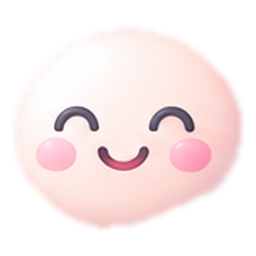
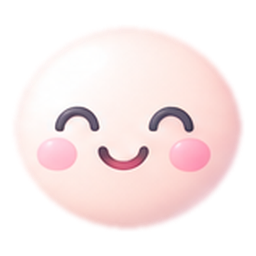
fix: 白いおもちの欠けを修正

diff --git a/OHinasama.html b/OHinasama.html
@@ -175,7 +175,7 @@ img.svc-icon{width:44px;height:44px;object-fit:contain;display:block;margin:0 au
 <div class="app">
   <div class="topbar">
     <div class="topbar-brand">OHinasama</div>
-    <span style="cursor:pointer;display:flex;" onclick="openStaff()"><img src="icons/site/lock.png?v=5" alt="スタッフ" style="width:30px;height:30px;"></span>
+    <span style="cursor:pointer;display:flex;" onclick="openStaff()"><img src="icons/site/lock.png?v=6" alt="スタッフ" style="width:30px;height:30px;"></span>
   </div>
   <div class="scroll-area">
     <div id="p-home" class="page active">
@@ -184,12 +184,12 @@ img.svc-icon{width:44px;height:44px;object-fit:contain;display:block;margin:0 au
         <div class="deco" style="width:65px;height:65px;background:#b0a0f0;bottom:0;left:-10px;"></div>
         <div class="logo-ring"><img src="icons/site/paw.png?v=2" alt="" style="width:50px;height:50px;object-fit:contain;"></div>
         <div class="brand-hero">OHinasama</div>
-        <div class="tagline">ふわふわスクイーズの専門ショップ <img class="ico" src="icons/site/sakura.png?v=5" alt=""></div>
+        <div class="tagline">ふわふわスクイーズの専門ショップ <img class="ico" src="icons/site/sakura.png?v=6" alt=""></div>
       </div>
       <div class="divider"></div>
-      <div class="sec-title"><img class="ico" src="icons/site/tulip.png?v=5" alt=""> OHinasamaについて</div>
+      <div class="sec-title"><img class="ico" src="icons/site/tulip.png?v=6" alt=""> OHinasamaについて</div>
       <div class="bubble"><p>OHinasamaは、<strong>スクイーズ（やわらかくてもちもちのおもちゃ）</strong>を専門に扱うショップです。<br><br>お買い物は<strong>ライブ配信</strong>でおこないます。リアルタイムでかわいいスクイーズたちをご覧いただけます！🎥✨</p></div>
-      <div class="sec-title"><img class="ico" src="icons/site/ribbon.png?v=5" alt=""> サービス内容</div>
+      <div class="sec-title"><img class="ico" src="icons/site/ribbon.png?v=6" alt=""> サービス内容</div>
       <div class="svc-grid">
         <div class="svc-card"><img class="svc-icon" src="icons/site/camera.png?v=2" alt=""><div class="svc-name">ライブ配信</div><div class="svc-desc">リアルタイムでスクイーズをご覧いただけます！</div></div>
         <div class="svc-card"><img class="svc-icon" src="icons/site/paw.png?v=2" alt=""><div class="svc-name">スクイーズ販売</div><div class="svc-desc">ふわふわもちもちのスクイーズをたくさんご用意！</div></div>
@@ -204,19 +204,19 @@ img.svc-icon{width:44px;height:44px;object-fit:contain;display:block;margin:0 au
       <div class="flow-box"><div class="step-num">3</div><div class="step-text"><strong>お気に入りをお選び</strong><br>気になるスクイーズを教えてね💕</div></div>
       <div class="arr">▼</div>
       <div class="flow-box"><div class="step-num">4</div><div class="step-text"><strong>お支払い &amp; お届け</strong><br>確認が終わったらお届けします🎁</div></div>
-      <div style="margin-top:1rem;" class="sec-title"><img class="ico" src="icons/site/clipboard.png?v=5" alt=""> ショップ情報</div>
+      <div style="margin-top:1rem;" class="sec-title"><img class="ico" src="icons/site/clipboard.png?v=6" alt=""> ショップ情報</div>
       <div class="info-row"><span style="font-size:1.1rem;">🕐</span><div class="info-text"><strong>営業時間</strong>お問い合わせ時にご確認ください</div></div>
       <div class="info-row"><span style="font-size:1.1rem;">🎥</span><div class="info-text"><strong>販売方法</strong>ライブ配信でのみ対応しております</div></div>
-      <div class="info-row"><img src="icons/site/sakura.png?v=5" alt="" style="width:22px;height:22px;"><div class="info-text"><strong>ご注意</strong>予約制ではありません。お気軽にご連絡ください♪</div></div>
+      <div class="info-row"><img src="icons/site/sakura.png?v=6" alt="" style="width:22px;height:22px;"><div class="info-text"><strong>ご注意</strong>予約制ではありません。お気軽にご連絡ください♪</div></div>
       <div class="ftr">
         <div class="ftr-logo">OHinasama</div>
-        <div style="font-size:0.66rem;color:#b3a9d9;margin-top:0.3rem;">ふわふわスクイーズ専門ショップ <img class="ico" src="icons/site/sakura.png?v=5" alt=""></div>
+        <div style="font-size:0.66rem;color:#b3a9d9;margin-top:0.3rem;">ふわふわスクイーズ専門ショップ <img class="ico" src="icons/site/sakura.png?v=6" alt=""></div>
         <div style="font-size:0.62rem;color:#b3a9d9;margin-top:0.2rem;">© OHinasama All rights reserved.</div>
       </div>
     </div>
     <div id="p-squeeze" class="page">
       <div class="sec-title" style="margin-top:0.3rem;">🧸 スクイーズ一覧</div>
-      <div class="sq-banner"><img src="icons/site/fire.png?v=5" alt="" style="width:34px;height:34px;"><div class="sq-banner-text">大人気のため現在ほぼ完売中！<br><span style="font-weight:400;font-size:0.7rem;color:#7a68d8;">ライブ配信でのみ購入できます</span></div></div>
+      <div class="sq-banner"><img src="icons/site/fire.png?v=6" alt="" style="width:34px;height:34px;"><div class="sq-banner-text">大人気のため現在ほぼ完売中！<br><span style="font-weight:400;font-size:0.7rem;color:#7a68d8;">ライブ配信でのみ購入できます</span></div></div>
       <div class="sq-grid" id="sq-grid"></div>
     </div>
     <div id="p-notice" class="page">
@@ -245,13 +245,13 @@ img.svc-icon{width:44px;height:44px;object-fit:contain;display:block;margin:0 au
   </div>
 </div>
 
-<button class="fav-float" onclick="openFavs()"><img src="icons/site/heart_red.png?v=5" alt="お気に入り" style="width:30px;height:30px;"><span class="fav-count" id="fav-count">0</span></button>
+<button class="fav-float" onclick="openFavs()"><img src="icons/site/heart_red.png?v=6" alt="お気に入り" style="width:30px;height:30px;"><span class="fav-count" id="fav-count">0</span></button>
 
 <div class="fav-overlay" id="fav-overlay" onclick="favOutsideClose(event)">
   <div class="fav-sheet">
     <div class="handle"></div>
     <div style="display:flex;justify-content:space-between;align-items:center;margin-bottom:1rem;">
-      <div style="font-size:0.95rem;font-weight:600;color:#7a68d8;"><img class="ico" src="icons/site/heart_red.png?v=5" alt=""> お気に入り</div>
+      <div style="font-size:0.95rem;font-weight:600;color:#7a68d8;"><img class="ico" src="icons/site/heart_red.png?v=6" alt=""> お気に入り</div>
       <button class="closebtn" onclick="closeFavs()">✕</button>
     </div>
     <div id="fav-list"></div>
@@ -262,11 +262,11 @@ img.svc-icon{width:44px;height:44px;object-fit:contain;display:block;margin:0 au
   <div class="sheet" id="sheet">
     <div class="handle"></div>
     <div style="display:flex;justify-content:space-between;align-items:center;margin-bottom:0.9rem;">
-      <div style="font-size:0.92rem;font-weight:600;color:#7a68d8;"><img class="ico" src="icons/site/lock.png?v=5" alt=""> スタッフ専用</div>
+      <div style="font-size:0.92rem;font-weight:600;color:#7a68d8;"><img class="ico" src="icons/site/lock.png?v=6" alt=""> スタッフ専用</div>
       <button class="closebtn" onclick="closeStaff()">✕</button>
     </div>
     <div id="pw-area" class="pw-area">
-      <div style="margin-bottom:0.5rem;"><img src="icons/site/lock.png?v=5" alt="" style="width:56px;height:56px;"></div>
+      <div style="margin-bottom:0.5rem;"><img src="icons/site/lock.png?v=6" alt="" style="width:56px;height:56px;"></div>
       <div class="pw-ttl">スタッフ専用ページ</div>
       <div class="pw-sub">パスワードを入力してください</div>
       <input class="pw-inp" type="password" id="pw-inp" placeholder="••••••" onkeydown="if(event.key==='Enter')checkPw()">
@@ -275,7 +275,7 @@ img.svc-icon{width:44px;height:44px;object-fit:contain;display:block;margin:0 au
     </div>
     <div class="sdash" id="sdash">
       <div style="display:flex;justify-content:space-between;align-items:center;margin-bottom:0.8rem;">
-        <div style="font-size:0.88rem;font-weight:600;color:#7a68d8;"><img class="ico" src="icons/site/ribbon.png?v=5" alt=""> スタッフページ</div>
+        <div style="font-size:0.88rem;font-weight:600;color:#7a68d8;"><img class="ico" src="icons/site/ribbon.png?v=6" alt=""> スタッフページ</div>
         <button class="logbtn" onclick="logout()">ログアウト</button>
       </div>
       <div class="stabs">
@@ -390,7 +390,7 @@ const PW='ohina0000';
 const ICONS={'🏠':'home','🧸':'paw','🔔':'mail','🔍':'search','📅':'calendar','🎥':'camera','✨':'sparkle','💬':'chat','❤':'heart_red','❤':'heart_red','🤍':'heart_white','🔒':'lock','🎀':'ribbon','🌷':'tulip','🌸':'sakura','📋':'clipboard','🔥':'fire','🕐':'clock','💕':'hearts','🎁':'gift','🍱':'bento','🍬':'candy','🐾':'paw_purple','🔵':'ball','🍙':'onigiri','🍞':'bread','🍡':'mochi_pink','🍥':'mochi_white','🧁':'cupcake','🛒':'cart'};
 // 「絵をえらぶ」に並べる順番（本人の最新シートの順）
 const PICK=['🏠','🧸','🔔','🔍','📅','🎥','✨','💬','❤','🤍','🔒','🎀','🌷','🌸','📋','🔥','🕐','💕','🎁','🍱','🍬','🐾','🔵','🍙','🍞','🍡','🍥','🧁','🛒'];
-const ICON_VER='5';
+const ICON_VER='6';
 const ICON_RE=new RegExp('('+Object.keys(ICONS).sort((a,b)=>b.length-a.length).map(e=>e.replace(/[.*+?^${}()|[\]\\]/g,'\\$&')).join('|')+')','g');
 const ICON_SKIP=new Set(['SCRIPT','STYLE','OPTION','SELECT','TEXTAREA','INPUT','TITLE']);
 function iconify(root){
@@ -460,7 +460,7 @@ function sqCard(s){
   if(isSoldOut)stockHtml='<div class="sq-sold">🔥 完売しました</div>';
   else if(s.disp_stock>0)stockHtml=`<div class="sq-stock">📦 残り${s.disp_stock}個</div>`;
   else if(!canBuy)stockHtml='<div class="sq-sold">🔥 人気につき完売中</div>';
-  const favBtn=`<button class="fav-btn" onclick="toggleFav(${s.id})"><img src="icons/site/${isFav?'heart_red':'heart_white'}.png?v=5" alt="" style="width:22px;height:22px;display:block;"></button>`;
+  const favBtn=`<button class="fav-btn" onclick="toggleFav(${s.id})"><img src="icons/site/${isFav?'heart_red':'heart_white'}.png?v=6" alt="" style="width:22px;height:22px;display:block;"></button>`;
   return`<div class="${cardClass}">${nb}${saleBadge}${favBtn}<span class="sq-emoji">${s.emoji}</span><div class="sq-name">${s.name}</div>${priceHtml}${stockHtml}<button class="${btnClass}" ${btnClick}><span class="buy-btn-inner">${canBuy?'✨ 購入する':'購入する'}</span></button></div>`;
 }
 function renderSq(){
